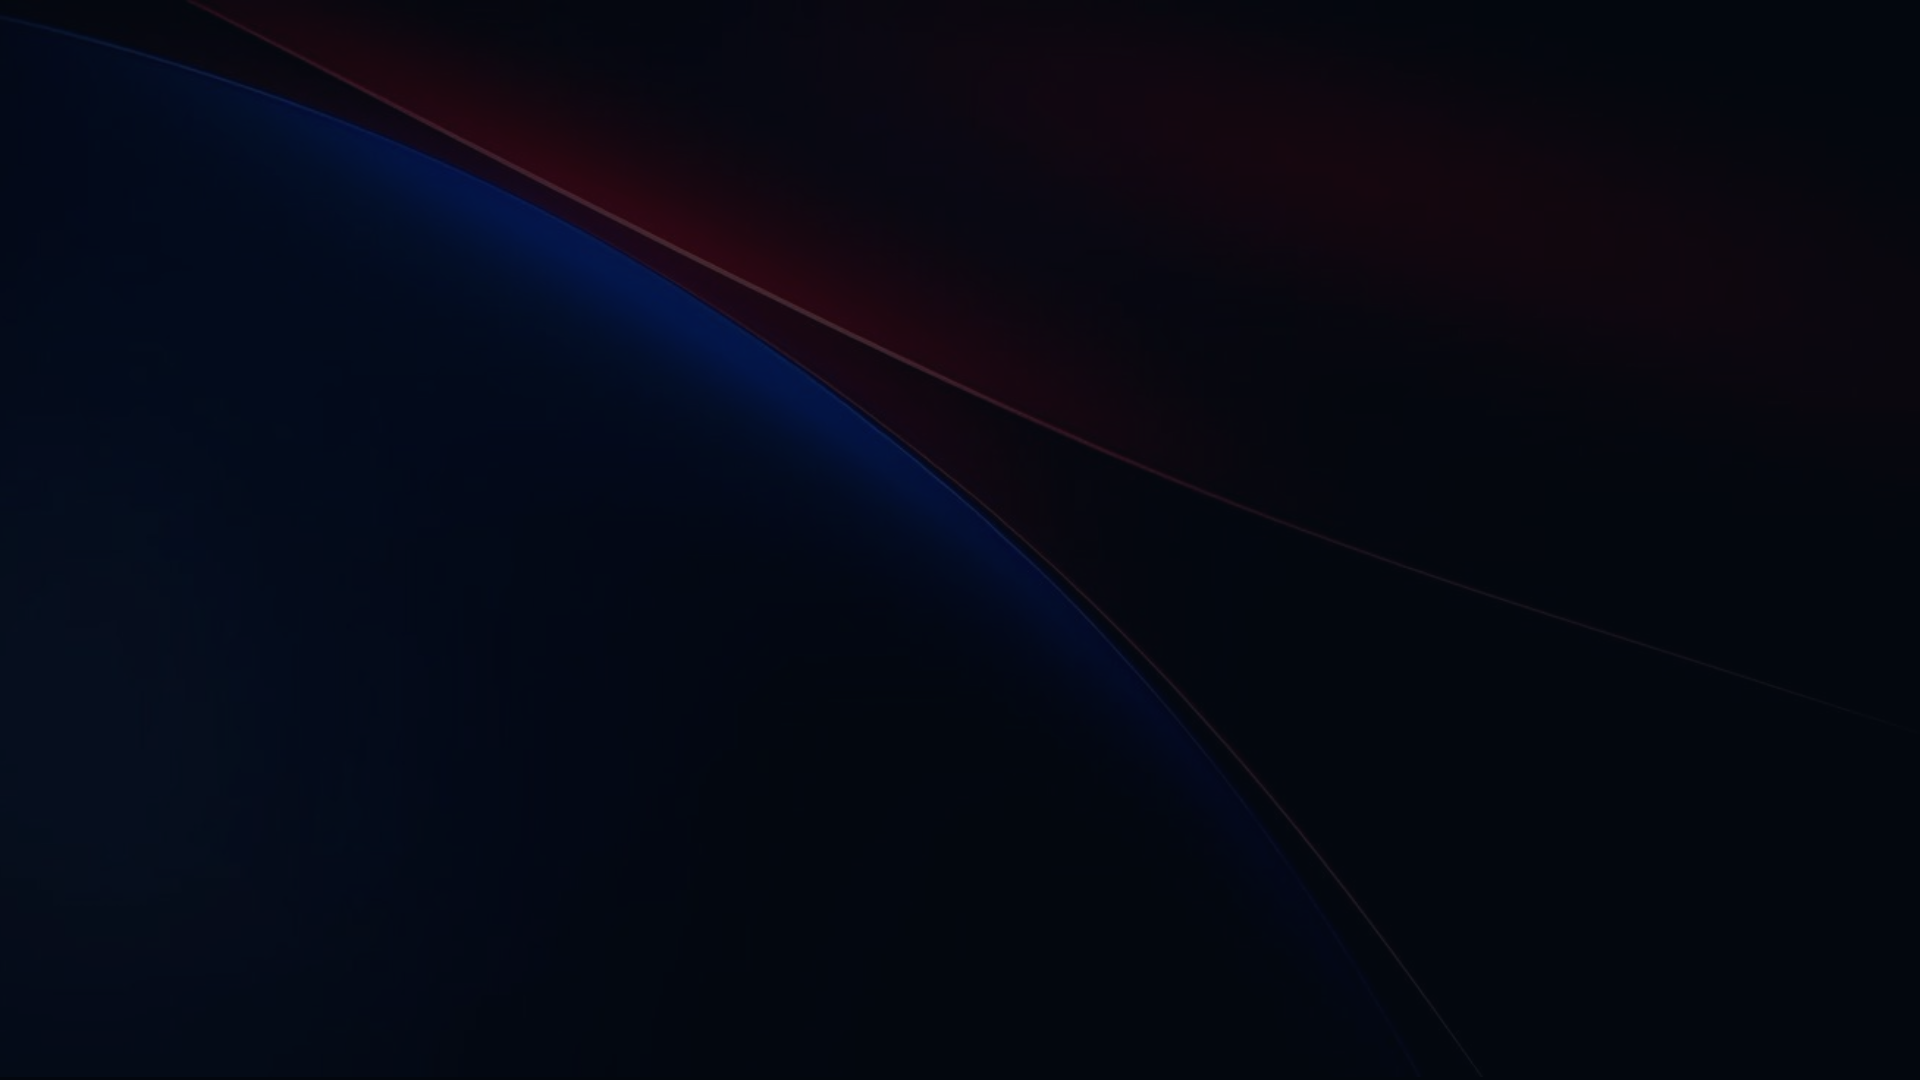
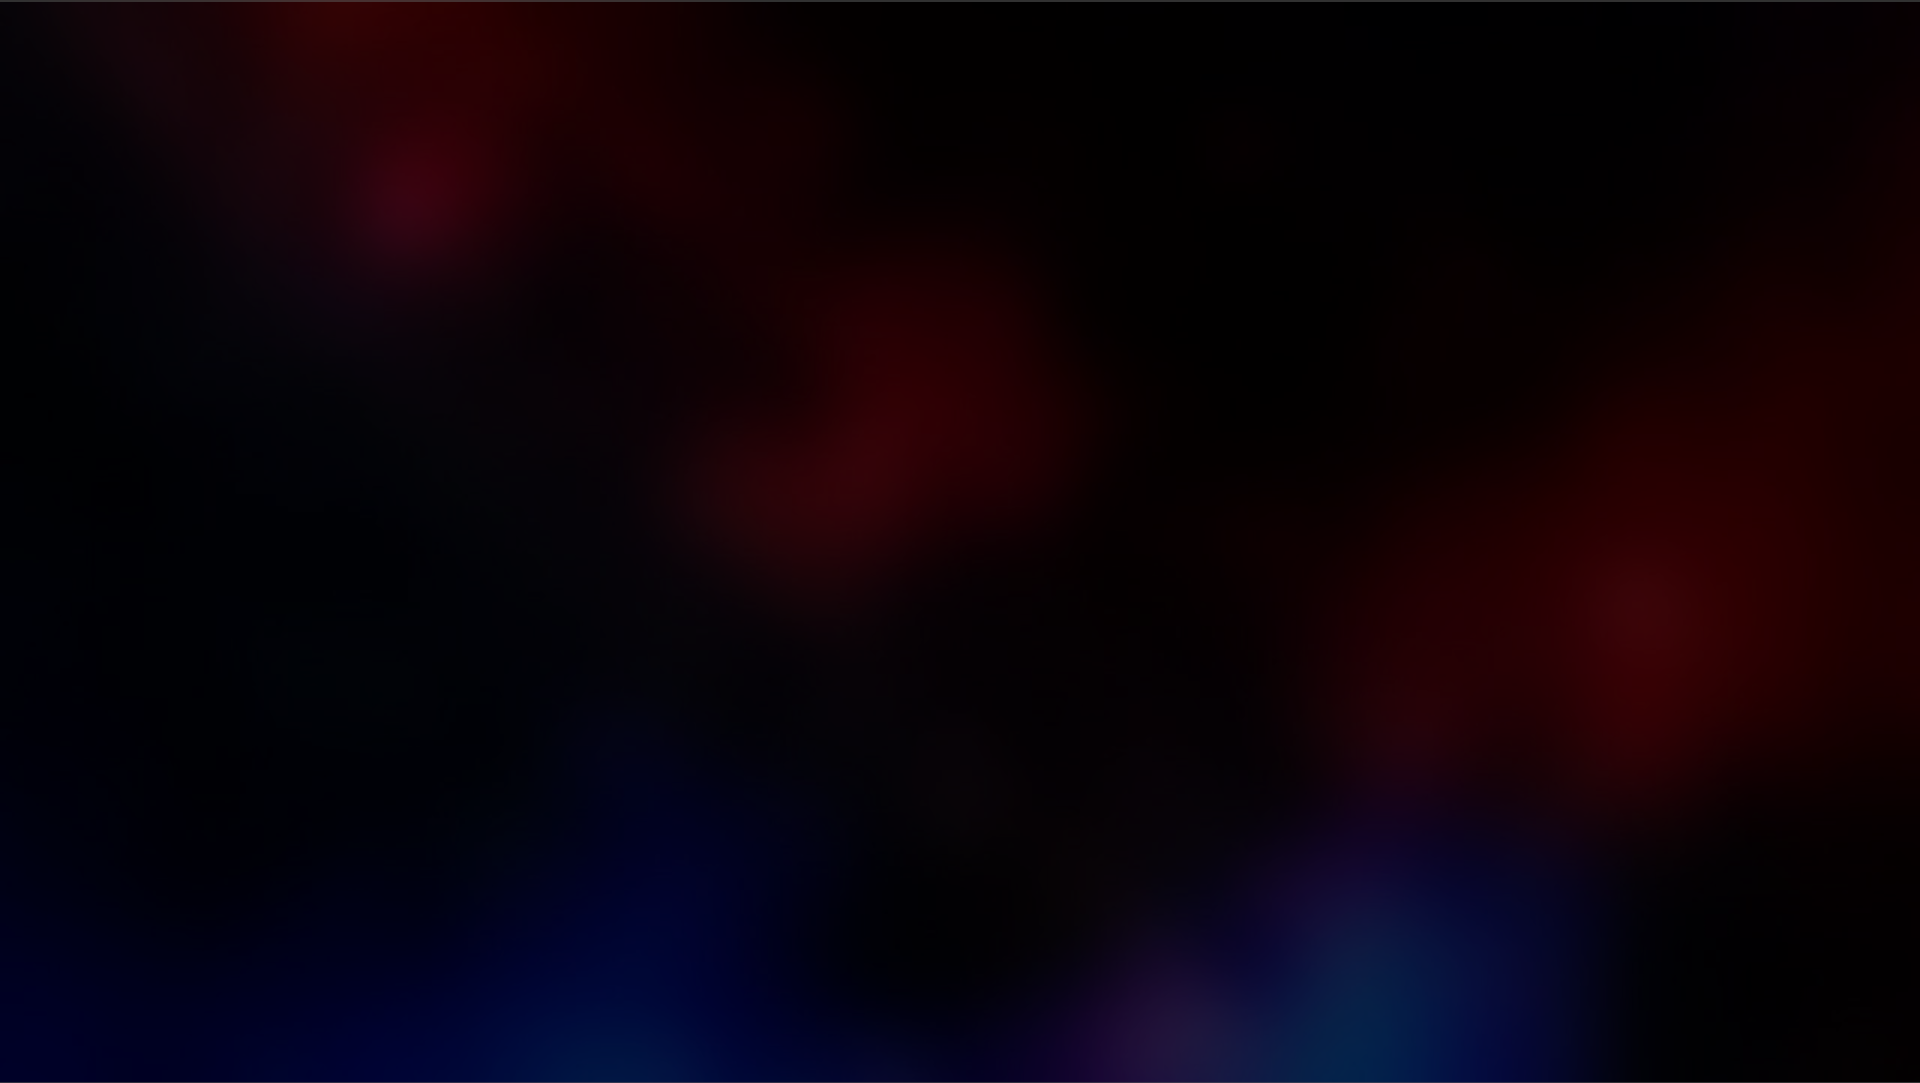
ghgfhfhfgafgh

diff --git a/index.html b/index.html
@@ -273,7 +273,7 @@
                 <div>
                   <img
                     class="img-fluid user-problem-photo mt-2 mt-lg-0"
-                    src="public/images/customer-12.png"
+                    src="public/images/customer-1.png"
                     alt="customer-photo"
                   />
                   <div
@@ -304,7 +304,7 @@
             class="col-12 col-lg-6 text-light mt-5 mt-lg-0 wow animate__slideInRight"
           >
             <div class="client-logo p-2 rounded-3">
-               <img class="img-fluid" src="./public/images/Screenshot_20240328_230121_Gallery-Recovered (1).svg" alt="client-logo">
+               <img class="img-fluid" src="./public/images/client-1-p.png" alt="client-logo">
             </div>
             <div>
               <div>
@@ -464,7 +464,7 @@
                 <div>
                   <img
                     class="img-fluid user-problem-photo mt-2 mt-lg-0"
-                    src="public/images/customer-2.svg"
+                    src="public/images/customer-2.png"
                     alt="customer-photo"
                   />
                   <div

diff --git a/css/style.css b/css/style.css
@@ -417,13 +417,11 @@ html {
   display: flex;
   justify-content: center;
   align-items: center;
-  font-size: 30px;
   background: var(--customer);
 }
 
 .client-logo img{
-  width: 100%;
-  height: 90px;
+  height: 60px;
 }
 
 .chex-icon {
@@ -768,19 +766,19 @@ html {
 }
 
 .card-1 {
-  background-image: url("../public/images/car-german-5.jpeg");
+  background-image: url("../public/images/Behind-the-scenes-1.PNG");
 }
 .card-2 {
-  background-image: url("../public/images/car-german-4.jpeg");
+  background-image: url("../public/images/Behind-the-scenes-2.PNG");
 }
 .card-3 {
-  background-image: url("../public/images/car-german-3.jpeg");
+  background-image: url("../public/images/Behind-the-scenes-3.PNG");
 }
 .card-4 {
-  background-image: url("../public/images/car-german-5.jpeg");
+  background-image: url("../public/images/Behind-the-scenes-4.JPG");
 }
 .card-5 {
-  background-image: url("../public/images/car-german-5.jpeg");
+  background-image: url("../public/images/Behind-the-scenes-5.PNG");
 }
 
 /* Frequent Questions  */
